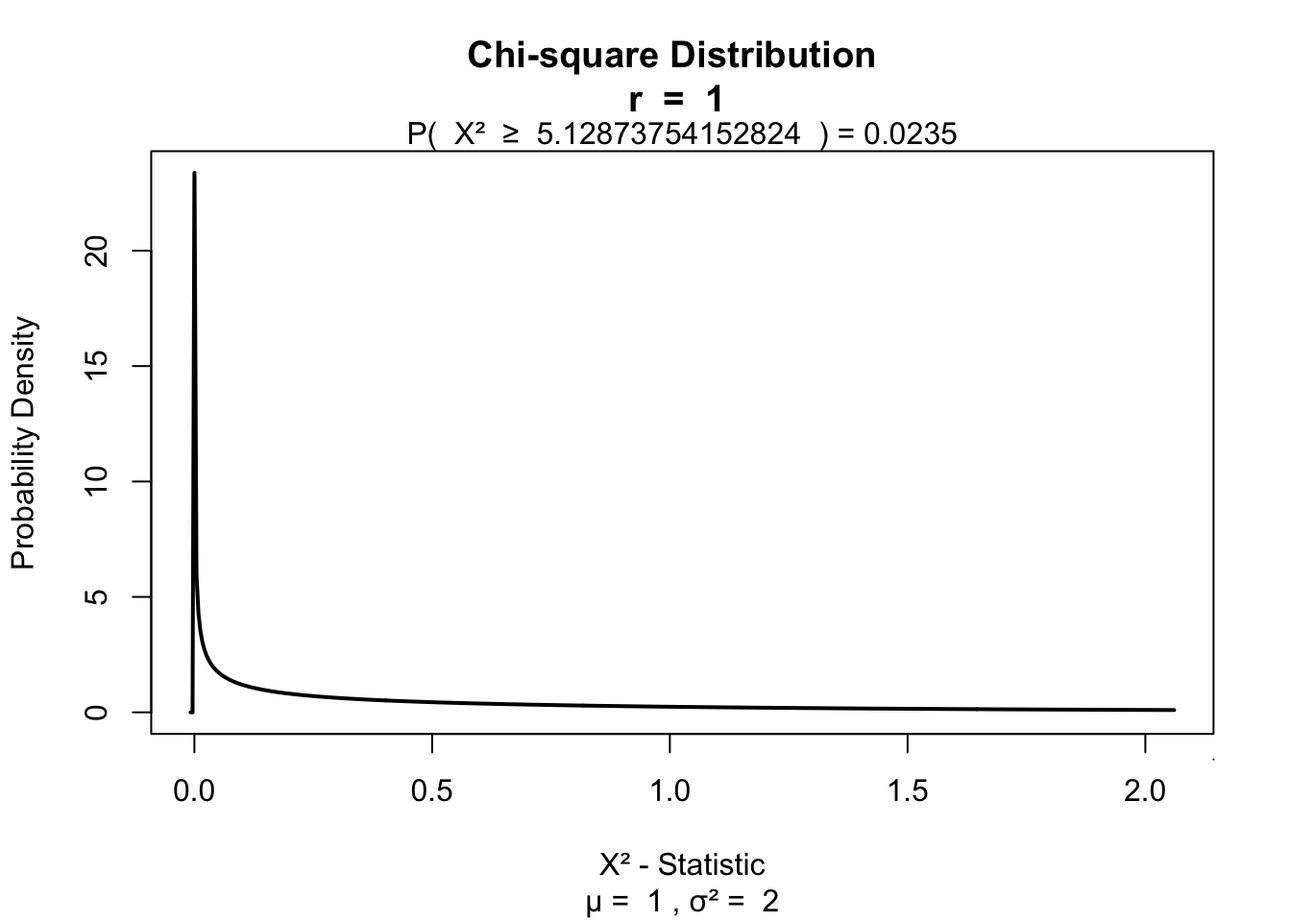
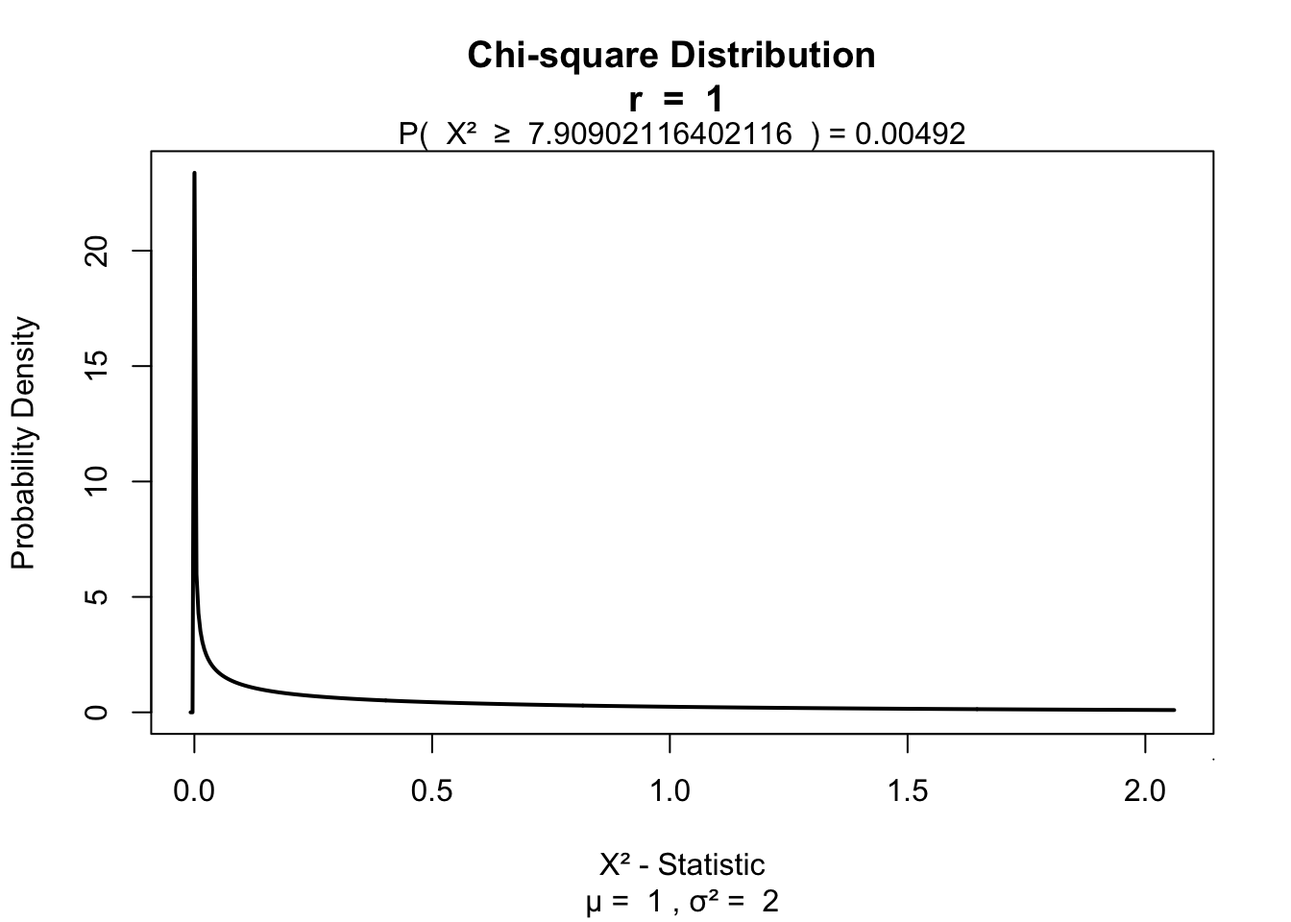
new data

Changed region(s): [[0.3125, 0.125, 0.75, 0.1562]]

diff --git a/courses/2020-2021_SSR/chi_squared_test/chi_squared_test_reveal.html b/courses/2020-2021_SSR/chi_squared_test/chi_squared_test_reveal.html
@@ -660,8 +660,8 @@ document.getElementsByTagName('head')[0].appendChild(style);
 </section><section id="data" class="slide level2 smaller">
 <h2>Data</h2>
 <p><small></p>
-<div id="htmlwidget-cf1dd7bc5f451b475255" style="width:100%;height:auto;" class="datatables html-widget"></div>
-<script type="application/json" data-for="htmlwidget-cf1dd7bc5f451b475255">{"x":{"filter":"none","data":[["215","216","217","218","219","220","221","222","223","224","225","226","227","228","229","230","231","232","233","234","235","236","237","238","239","240","241","242","243","244","245","246","247","248","249","250","251","252","253","254","255","256","257","258","259","260","261","262","263","264","265","266","267","268","269","270","436"],["05/10/2017 16:56:01","12/10/2017 09:50:53","12/10/2017 09:50:55","12/10/2017 09:50:57","12/10/2017 09:51:06","12/10/2017 09:51:10","12/10/2017 09:51:11","12/10/2017 09:51:12","12/10/2017 09:51:13","12/10/2017 09:51:15","12/10/2017 09:51:18","12/10/2017 09:51:19","12/10/2017 09:51:19","12/10/2017 09:51:20","12/10/2017 09:51:22","12/10/2017 09:51:22","12/10/2017 09:51:23","12/10/2017 09:51:24","12/10/2017 09:51:25","12/10/2017 09:51:26","12/10/2017 09:51:26","12/10/2017 09:51:26","12/10/2017 09:51:27","12/10/2017 09:51:28","12/10/2017 09:51:28","12/10/2017 09:51:30","12/10/2017 09:51:30","12/10/2017 09:51:33","12/10/2017 09:51:34","12/10/2017 09:51:34","12/10/2017 09:51:35","12/10/2017 09:51:40","12/10/2017 09:51:42","12/10/2017 09:51:42","12/10/2017 09:51:43","12/10/2017 09:51:44","12/10/2017 09:51:44","12/10/2017 09:51:46","12/10/2017 09:51:47","12/10/2017 09:51:47","12/10/2017 09:51:49","12/10/2017 09:51:49","12/10/2017 09:51:50","12/10/2017 09:51:52","12/10/2017 09:51:54","12/10/2017 09:51:55","12/10/2017 09:51:57","12/10/2017 09:52:00","12/10/2017 09:52:00","12/10/2017 09:52:04","12/10/2017 09:52:06","12/10/2017 09:52:07","12/10/2017 09:52:08","12/10/2017 09:52:10","12/10/2017 09:52:24","12/10/2017 09:52:35","14/10/2020 16:15:10"],["Ja","Nee","Ja","Ja","Nee","Ja","Ja","Nee","Ja","Ja","Nee","Nee","Ja","Nee","Ja","Ja","Ja","Ja","Ja","Ja","Ja","Ja","Ja","Nee","Ja","Ja","Ja","Nee","Ja","Ja","Ja","Ja","Nee","Nee","Ja","Ja","Ja","Ja","Ja","Ja","Nee","Ja","Ja","Ja","Nee","Ja","Ja","Ja","Ja","Ja","Ja","Ja","Nee","Ja","Ja","Ja","Nee"],[3,0,1,2,0,0,50,0,7,5,0,0,17,0,10,38,0,0,5,5,30,0,20,0,1,2,0,0,8,150,3,2,0,1,5,4,3,0,90,1,0,2,15,25,0,2,1,2,90,200,1,8,0,0,60,5,0],[3,1,4,4,1,1,4,4,3,5,3,3,3,2,3,2,4,3,5,4,3,3,3,4,4,4,2,4,5,4,4,3,5,3,4,4,3,4,4,3,4,3,3,5,4,4,4,4,4,5,3,3,4,3,3,3,3],["Man","Man","Man","Man","Vrouw","Vrouw","Vrouw","Vrouw","Man","Vrouw","Vrouw","Vrouw","Man","Vrouw","Man","Vrouw","Man","Vrouw","Man","Vrouw","Man","Vrouw","Man","Vrouw","Vrouw","Vrouw","Vrouw","Vrouw","Vrouw","Man","Man","Vrouw","Vrouw","Vrouw","Vrouw","Vrouw","Vrouw","Vrouw","Man","Vrouw","Vrouw","Vrouw","Vrouw","Vrouw","Vrouw","Vrouw","Vrouw","Vrouw","Man","Man","Vrouw","Man","Vrouw","Vrouw","Man","Vrouw","Vrouw"],[40,23,27,21,19,20,20,21,20,21,20,19,19,19,26,19,23,21,22,20,19,19,21,20,20,19,21,22,21,20,20,10,23,18,19,25,20,20,25,20,26,20,19,20,20,20,19,20,23,26,19,19,19,31,21,19,19]],"container":"<table class=\"display\">\n  <thead>\n    <tr>\n      <th> <\/th>\n      <th>Timestamp<\/th>\n      <th>fluiten<\/th>\n      <th>frequentie<\/th>\n      <th>assertief<\/th>\n      <th>sekse<\/th>\n      <th>leeftijd<\/th>\n    <\/tr>\n  <\/thead>\n<\/table>","options":{"columnDefs":[{"className":"dt-right","targets":[3,4,6]},{"orderable":false,"targets":0}],"order":[],"autoWidth":false,"orderClasses":false}},"evals":[],"jsHooks":[]}</script>
+<div id="htmlwidget-87e1f4bdd64ece0b31a5" style="width:100%;height:auto;" class="datatables html-widget"></div>
+<script type="application/json" data-for="htmlwidget-87e1f4bdd64ece0b31a5">{"x":{"filter":"none","data":[["215","216","217","218","219","220","221","222","223","224","225","226","227","228","229","230","231","232","233","234","235","236","237","238","239","240","241","242","243","244","245","246","247","248","249","250","251","252","253","254","255","256","257","258","259","260","261","262","263","264","265","266","267","268","269","270","436","437","438","439","440","441","442","443","444","445","446","447","448","449","450","451","452","453","454","455","456","457","458","459","460","461","462","463","464","465","466","467","468","469","470","471","472","473","474","475","476","477","478","479","480","481","482","483","484","485","486","487","488","489","490","491","492","493","494","495","496","497","498","499","500","501"],["05/10/2017 16:56:01","12/10/2017 09:50:53","12/10/2017 09:50:55","12/10/2017 09:50:57","12/10/2017 09:51:06","12/10/2017 09:51:10","12/10/2017 09:51:11","12/10/2017 09:51:12","12/10/2017 09:51:13","12/10/2017 09:51:15","12/10/2017 09:51:18","12/10/2017 09:51:19","12/10/2017 09:51:19","12/10/2017 09:51:20","12/10/2017 09:51:22","12/10/2017 09:51:22","12/10/2017 09:51:23","12/10/2017 09:51:24","12/10/2017 09:51:25","12/10/2017 09:51:26","12/10/2017 09:51:26","12/10/2017 09:51:26","12/10/2017 09:51:27","12/10/2017 09:51:28","12/10/2017 09:51:28","12/10/2017 09:51:30","12/10/2017 09:51:30","12/10/2017 09:51:33","12/10/2017 09:51:34","12/10/2017 09:51:34","12/10/2017 09:51:35","12/10/2017 09:51:40","12/10/2017 09:51:42","12/10/2017 09:51:42","12/10/2017 09:51:43","12/10/2017 09:51:44","12/10/2017 09:51:44","12/10/2017 09:51:46","12/10/2017 09:51:47","12/10/2017 09:51:47","12/10/2017 09:51:49","12/10/2017 09:51:49","12/10/2017 09:51:50","12/10/2017 09:51:52","12/10/2017 09:51:54","12/10/2017 09:51:55","12/10/2017 09:51:57","12/10/2017 09:52:00","12/10/2017 09:52:00","12/10/2017 09:52:04","12/10/2017 09:52:06","12/10/2017 09:52:07","12/10/2017 09:52:08","12/10/2017 09:52:10","12/10/2017 09:52:24","12/10/2017 09:52:35","14/10/2020 16:15:10","15/10/2020 09:45:39","15/10/2020 09:45:44","15/10/2020 09:45:47","15/10/2020 09:45:48","15/10/2020 09:45:51","15/10/2020 09:45:53","15/10/2020 09:45:53","15/10/2020 09:46:00","15/10/2020 09:46:02","15/10/2020 09:46:02","15/10/2020 09:46:02","15/10/2020 09:46:03","15/10/2020 09:46:05","15/10/2020 09:46:05","15/10/2020 09:46:06","15/10/2020 09:46:07","15/10/2020 09:46:10","15/10/2020 09:46:10","15/10/2020 09:46:10","15/10/2020 09:46:12","15/10/2020 09:46:17","15/10/2020 09:46:18","15/10/2020 09:46:19","15/10/2020 09:46:24","15/10/2020 09:46:28","15/10/2020 09:46:29","15/10/2020 09:46:33","15/10/2020 09:46:34","15/10/2020 09:46:34","15/10/2020 09:46:35","15/10/2020 09:46:35","15/10/2020 09:46:37","15/10/2020 09:46:37","15/10/2020 09:46:38","15/10/2020 09:46:39","15/10/2020 09:46:41","15/10/2020 09:46:42","15/10/2020 09:46:42","15/10/2020 09:46:47","15/10/2020 09:46:49","15/10/2020 09:46:50","15/10/2020 09:46:51","15/10/2020 09:46:58","15/10/2020 09:47:00","15/10/2020 09:47:01","15/10/2020 09:47:01","15/10/2020 09:47:04","15/10/2020 09:47:05","15/10/2020 09:47:06","15/10/2020 09:47:08","15/10/2020 09:47:11","15/10/2020 09:47:11","15/10/2020 09:47:13","15/10/2020 09:47:13","15/10/2020 09:47:16","15/10/2020 09:47:19","15/10/2020 09:47:23","15/10/2020 09:47:26","15/10/2020 09:47:27","15/10/2020 09:47:29","15/10/2020 09:47:31","15/10/2020 09:47:37","15/10/2020 09:47:42","15/10/2020 09:47:53","15/10/2020 09:48:11"],["Ja","Nee","Ja","Ja","Nee","Ja","Ja","Nee","Ja","Ja","Nee","Nee","Ja","Nee","Ja","Ja","Ja","Ja","Ja","Ja","Ja","Ja","Ja","Nee","Ja","Ja","Ja","Nee","Ja","Ja","Ja","Ja","Nee","Nee","Ja","Ja","Ja","Ja","Ja","Ja","Nee","Ja","Ja","Ja","Nee","Ja","Ja","Ja","Ja","Ja","Ja","Ja","Nee","Ja","Ja","Ja","Nee","Nee","Nee","Ja","Nee","Nee","Nee","Ja","Ja","Nee","Nee","Ja","Ja","Ja","Ja","Nee","Ja","Ja","Ja","Nee","Nee","Nee","Ja","Nee","Ja","Ja","Ja","Nee","Ja","Ja","Nee","Ja","Ja","Ja","Nee","Ja","Nee","Nee","Ja","Ja","Ja","Ja","Ja","Ja","Ja","Ja","Nee","Ja","Ja","Ja","Nee","Ja","Ja","Ja","Nee","Nee","Ja","Ja","Ja","Ja","Ja","Ja","Ja","Ja","Ja","Ja"],[3,0,1,2,0,0,50,0,7,5,0,0,17,0,10,38,0,0,5,5,30,0,20,0,1,2,0,0,8,150,3,2,0,1,5,4,3,0,90,1,0,2,15,25,0,2,1,2,90,200,1,8,0,0,60,5,0,0,0,3,0,0,0,10,2,0,0,10,40,3,8,0,0,3,0,0,0,0,2,0,1,20,3,0,1,30,0,30,15,3,0,70,0,0,2,0,3,15,0,6,15,60,3,30,10,3,0,3,4,13,0,0,6,50,6,15,20,3,3,0,2,2],[3,1,4,4,1,1,4,4,3,5,3,3,3,2,3,2,4,3,5,4,3,3,3,4,4,4,2,4,5,4,4,3,5,3,4,4,3,4,4,3,4,3,3,5,4,4,4,4,4,5,3,3,4,3,3,3,3,2,4,4,4,4,3,4,3,3,4,4,5,4,5,3,2,4,2,4,3,2,4,4,3,2,3,3,5,2,2,4,3,2,4,3,1,4,1,5,3,4,3,4,3,1,2,4,3,2,3,4,3,4,5,4,5,3,3,5,3,5,3,3,4,3],["Man","Man","Man","Man","Vrouw","Vrouw","Vrouw","Vrouw","Man","Vrouw","Vrouw","Vrouw","Man","Vrouw","Man","Vrouw","Man","Vrouw","Man","Vrouw","Man","Vrouw","Man","Vrouw","Vrouw","Vrouw","Vrouw","Vrouw","Vrouw","Man","Man","Vrouw","Vrouw","Vrouw","Vrouw","Vrouw","Vrouw","Vrouw","Man","Vrouw","Vrouw","Vrouw","Vrouw","Vrouw","Vrouw","Vrouw","Vrouw","Vrouw","Man","Man","Vrouw","Man","Vrouw","Vrouw","Man","Vrouw","Vrouw","Vrouw","Vrouw","Man","Vrouw","Man","Vrouw","Vrouw","Vrouw","Vrouw","Vrouw","Vrouw","Man","Vrouw","Man","Vrouw","Vrouw","Vrouw","Vrouw","Vrouw","Vrouw","Vrouw","Vrouw","Vrouw","Vrouw","Man","Vrouw","Man","Vrouw","Man","Vrouw","Vrouw","Man","Vrouw","Vrouw","Vrouw","Vrouw","Vrouw","Vrouw","Vrouw","Man","Vrouw","Vrouw","Vrouw","Vrouw","Vrouw","Vrouw","Vrouw","Man","Vrouw","Vrouw","Vrouw","Man","Vrouw","Vrouw","Vrouw","Vrouw","Vrouw","Vrouw","Man","Man","Vrouw","Vrouw","Vrouw","Vrouw","Man"],[40,23,27,21,19,20,20,21,20,21,20,19,19,19,26,19,23,21,22,20,19,19,21,20,20,19,21,22,21,20,20,10,23,18,19,25,20,20,25,20,26,20,19,20,20,20,19,20,23,26,19,19,19,31,21,19,19,19,24,29,19,20,20,21,19,20,27,21,32,27,23,19,21,20,19,20,19,20,23,22,19,25,19,23,21,19,19,28,20,19,35,21,21,22,19,22,21,19,19,20,21,20,24,21,28,19,20,20,20,21,20,24,23,20,19,23,21,20,19,31,24,26]],"container":"<table class=\"display\">\n  <thead>\n    <tr>\n      <th> <\/th>\n      <th>Timestamp<\/th>\n      <th>fluiten<\/th>\n      <th>frequentie<\/th>\n      <th>assertief<\/th>\n      <th>sekse<\/th>\n      <th>leeftijd<\/th>\n    <\/tr>\n  <\/thead>\n<\/table>","options":{"columnDefs":[{"className":"dt-right","targets":[3,4,6]},{"orderable":false,"targets":0}],"order":[],"autoWidth":false,"orderClasses":false}},"evals":[],"jsHooks":[]}</script>
 <p></small></p>
 </section><section id="calculating-chi2" class="slide level2 subsection">
 <h2>Calculating <span class="math inline">\(\chi^2\)</span></h2>
@@ -669,12 +669,12 @@ document.getElementsByTagName('head')[0].appendChild(style);
 <a class="sourceLine" id="cb2-2" data-line-number="2">observed</a></code></pre></div>
 <pre><code>##        sekse
 ## fluiten Man Vrouw
-##     Ja   17    26
-##     Nee   1    13</code></pre>
+##     Ja   29    58
+##     Nee   3    32</code></pre>
 <p><span class="math display">\[\text{observed}_{ij} = 
  \begin{pmatrix}
-  17 &amp; 26 \\
-  1 &amp; 13 \\
+  29 &amp; 58 \\
+  3 &amp; 32 \\
  \end{pmatrix}\]</span></p>
 </section><section id="calculating-the-model" class="slide level2 subsection">
 <h2>Calculating the model</h2>
@@ -688,9 +688,9 @@ document.getElementsByTagName('head')[0].appendChild(style);
 <a class="sourceLine" id="cb4-7" data-line-number="7"><span class="kw">addmargins</span>(observed)</a></code></pre></div>
 <pre><code>##        sekse
 ## fluiten Man Vrouw Sum
-##     Ja   17    26  43
-##     Nee   1    13  14
-##     Sum  18    39  57</code></pre>
+##     Ja   29    58  87
+##     Nee   3    32  35
+##     Sum  32    90 122</code></pre>
 </section><section id="calculating-the-model-1" class="slide level2 smaller">
 <h2>Calculating the model</h2>
 <p><small></p>
@@ -701,13 +701,13 @@ document.getElementsByTagName('head')[0].appendChild(style);
 <a class="sourceLine" id="cb6-4" data-line-number="4">                  (ct2<span class="op">*</span>rt2)<span class="op">/</span>n),<span class="dv">2</span>,<span class="dv">2</span>,<span class="dt">byrow=</span>T</a>
 <a class="sourceLine" id="cb6-5" data-line-number="5">          )</a>
 <a class="sourceLine" id="cb6-6" data-line-number="6">model</a></code></pre></div>
-<pre><code>##           [,1]      [,2]
-## [1,] 13.578947 29.421053
-## [2,]  4.421053  9.578947</code></pre>
+<pre><code>##           [,1]     [,2]
+## [1,] 22.819672 64.18033
+## [2,]  9.180328 25.81967</code></pre>
 <p><span class="math display">\[\text{model}_{ij} = 
  \begin{pmatrix}
-  13.5789474 &amp; 29.4210526 \\
-  4.4210526 &amp; 9.5789474 \\
+  22.8196721 &amp; 64.1803279 \\
+  9.1803279 &amp; 25.8196721 \\
  \end{pmatrix}\]</span></p>
 <p></small></p>
 </section><section id="observed---model" class="slide level2 subsection">
@@ -715,15 +715,15 @@ document.getElementsByTagName('head')[0].appendChild(style);
 <div class="sourceCode" id="cb8"><pre class="sourceCode r"><code class="sourceCode r"><a class="sourceLine" id="cb8-1" data-line-number="1">observed <span class="op">-</span><span class="st"> </span>model</a></code></pre></div>
 <pre><code>##        sekse
 ## fluiten       Man     Vrouw
-##     Ja   3.421053 -3.421053
-##     Nee -3.421053  3.421053</code></pre>
+##     Ja   6.180328 -6.180328
+##     Nee -6.180328  6.180328</code></pre>
 </section><section id="calculating-chi2-1" class="slide level2">
 <h2>Calculating <span class="math inline">\(\chi^2\)</span></h2>
 <p><span class="math display">\[\chi^2 = \sum \frac{(\text{observed}_{ij} - \text{model}_{ij})^2}{\text{model}_{ij}}\]</span></p>
 <div class="sourceCode" id="cb10"><pre class="sourceCode r"><code class="sourceCode r"><a class="sourceLine" id="cb10-1" data-line-number="1"><span class="co"># Calculate chi squared</span></a>
 <a class="sourceLine" id="cb10-2" data-line-number="2">chi.squared &lt;-<span class="st"> </span><span class="kw">sum</span>((observed <span class="op">-</span><span class="st"> </span>model)<span class="op">^</span><span class="dv">2</span><span class="op">/</span>model)</a>
 <a class="sourceLine" id="cb10-3" data-line-number="3">chi.squared</a></code></pre></div>
-<pre><code>## [1] 5.128738</code></pre>
+<pre><code>## [1] 7.909021</code></pre>
 </section><section id="testing-for-significance" class="slide level2 subsection">
 <h2>Testing for significance</h2>
 <p><span class="math inline">\(df = (r - 1) (c - 1)\)</span></p>
@@ -747,7 +747,7 @@ document.getElementsByTagName('head')[0].appendChild(style);
 <div class="sourceCode" id="cb13"><pre class="sourceCode r"><code class="sourceCode r"><a class="sourceLine" id="cb13-1" data-line-number="1"><span class="co"># Calculate Yates&#39;s corrected chi squared</span></a>
 <a class="sourceLine" id="cb13-2" data-line-number="2">chi.squared.yates &lt;-<span class="st"> </span><span class="kw">sum</span>((<span class="kw">abs</span>(observed <span class="op">-</span><span class="st"> </span>model) <span class="op">-</span><span class="st"> </span><span class="fl">.5</span>)<span class="op">^</span><span class="dv">2</span><span class="op">/</span>model)</a>
 <a class="sourceLine" id="cb13-3" data-line-number="3">chi.squared.yates</a></code></pre></div>
-<pre><code>## [1] 3.739123</code></pre>
+<pre><code>## [1] 6.681078</code></pre>
 <div class="sourceCode" id="cb15"><pre class="sourceCode r"><code class="sourceCode r"><a class="sourceLine" id="cb15-1" data-line-number="1"><span class="kw">visualize.chisq</span>(chi.squared.yates,df,<span class="dt">section=</span><span class="st">&#39;upper&#39;</span>)</a></code></pre></div>
 </section><section class="slide level2">
 
@@ -758,7 +758,7 @@ document.getElementsByTagName('head')[0].appendChild(style);
 <p><span class="math display">\[L \chi^2 = 2 \sum \text{observed}_{ij} ln \left( \frac{\text{observed}_{ij}}{\text{model}_{ij}} \right)\]</span></p>
 <div class="sourceCode" id="cb16"><pre class="sourceCode r"><code class="sourceCode r"><a class="sourceLine" id="cb16-1" data-line-number="1"><span class="co"># ln is log</span></a>
 <a class="sourceLine" id="cb16-2" data-line-number="2">lx2 =<span class="st"> </span><span class="dv">2</span> <span class="op">*</span><span class="st"> </span><span class="kw">sum</span>(observed <span class="op">*</span><span class="st"> </span><span class="kw">log</span>(observed <span class="op">/</span><span class="st"> </span>model) ); lx2</a></code></pre></div>
-<pre><code>## [1] 6.178795</code></pre>
+<pre><code>## [1] 9.179238</code></pre>
 <div class="sourceCode" id="cb18"><pre class="sourceCode r"><code class="sourceCode r"><a class="sourceLine" id="cb18-1" data-line-number="1"><span class="kw">visualize.chisq</span>(lx2,df,<span class="dt">section=</span><span class="st">&#39;upper&#39;</span>)</a></code></pre></div>
 </section><section class="slide level2">
 
@@ -769,36 +769,36 @@ document.getElementsByTagName('head')[0].appendChild(style);
 <div class="sourceCode" id="cb19"><pre class="sourceCode r"><code class="sourceCode r"><a class="sourceLine" id="cb19-1" data-line-number="1">(observed <span class="op">-</span><span class="st"> </span>model) <span class="op">/</span><span class="st"> </span><span class="kw">sqrt</span>(model)</a></code></pre></div>
 <pre><code>##        sekse
 ## fluiten        Man      Vrouw
-##     Ja   0.9283820 -0.6307114
-##     Nee -1.6270351  1.1053527</code></pre>
+##     Ja   1.2937692 -0.7714549
+##     Nee -2.0397757  1.2162872</code></pre>
 </section><section id="effect-size" class="slide level2 subsection">
 <h2>Effect size</h2>
 <p>Odds ratio based on the observed values</p>
 <div class="sourceCode" id="cb21"><pre class="sourceCode r"><code class="sourceCode r"><a class="sourceLine" id="cb21-1" data-line-number="1">odds &lt;-<span class="st"> </span><span class="kw">round</span>( observed, <span class="dv">2</span>); odds</a></code></pre></div>
 <pre><code>##        sekse
 ## fluiten Man Vrouw
-##     Ja   17    26
-##     Nee   1    13</code></pre>
+##     Ja   29    58
+##     Nee   3    32</code></pre>
 <p><span class="math display">\[\begin{pmatrix}
   a &amp; b \\
   c &amp; d \\
  \end{pmatrix}\]</span></p>
-<p><span class="math display">\[OR = \frac{a \times d}{b \times c} = \frac{17 \times 13}{26 \times 1} = 8.5\]</span></p>
+<p><span class="math display">\[OR = \frac{a \times d}{b \times c} = \frac{29 \times 32}{58 \times 3} = 5.3333333\]</span></p>
 </section><section id="odds" class="slide level2">
 <h2>Odds</h2>
 <pre><code>##        sekse
 ## fluiten Man Vrouw
-##     Ja   17    26
-##     Nee   1    13</code></pre>
+##     Ja   29    58
+##     Nee   3    32</code></pre>
 <p>The man and women ratio of people that can whisle and the ratio of those who can’t whistle</p>
 <ul>
-<li>Can wistle <span class="math inline">\(\text{Odds}_{mf} = \frac{ 17 }{ 26 }\)</span> = 0.6538462</li>
-<li>Can’t wistle <span class="math inline">\(\text{Odds}_{mf} = \frac{ 1 }{ 13 }\)</span> = 0.0769231</li>
+<li>Can wistle <span class="math inline">\(\text{Odds}_{mf} = \frac{ 29 }{ 58 }\)</span> = 0.5</li>
+<li>Can’t wistle <span class="math inline">\(\text{Odds}_{mf} = \frac{ 3 }{ 32 }\)</span> = 0.09375</li>
 </ul>
 </section><section id="odds-ratio" class="slide level2">
 <h2>Odds ratio</h2>
 <p>Is the ratio of these odds.</p>
-<p><span class="math display">\[OR = \frac{\text{wistle}}{\text{can&#39;t wistle}} = \frac{0.6538462}{0.0769231} = 8.5\]</span></p>
+<p><span class="math display">\[OR = \frac{\text{wistle}}{\text{can&#39;t wistle}} = \frac{0.5}{0.09375} = 5.3333333\]</span></p>
 <!-- Footer insert below -->
 </section></section>
 <section><section id="end" class="title-slide slide level1"><h1>End</h1></section><section id="contact" class="slide level2">

diff --git a/courses/2020-2021_SSR/chi_squared_test/chi_squared_test_handout.html b/courses/2020-2021_SSR/chi_squared_test/chi_squared_test_handout.html
@@ -371,9 +371,8 @@ legend(&quot;topright&quot;, legend = paste(&quot;k =&quot;,df), col = col, lty 
 <div id="data" class="section level2 smaller">
 <h2>Data</h2>
 <p><small></p>
-<pre><code>## Warning: package &#39;gsheet&#39; was built under R version 3.6.2</code></pre>
-<div id="htmlwidget-e3097c829f0482c41d23" style="width:100%;height:auto;" class="datatables html-widget"></div>
-<script type="application/json" data-for="htmlwidget-e3097c829f0482c41d23">{"x":{"filter":"none","data":[["215","216","217","218","219","220","221","222","223","224","225","226","227","228","229","230","231","232","233","234","235","236","237","238","239","240","241","242","243","244","245","246","247","248","249","250","251","252","253","254","255","256","257","258","259","260","261","262","263","264","265","266","267","268","269","270","436"],["05/10/2017 16:56:01","12/10/2017 09:50:53","12/10/2017 09:50:55","12/10/2017 09:50:57","12/10/2017 09:51:06","12/10/2017 09:51:10","12/10/2017 09:51:11","12/10/2017 09:51:12","12/10/2017 09:51:13","12/10/2017 09:51:15","12/10/2017 09:51:18","12/10/2017 09:51:19","12/10/2017 09:51:19","12/10/2017 09:51:20","12/10/2017 09:51:22","12/10/2017 09:51:22","12/10/2017 09:51:23","12/10/2017 09:51:24","12/10/2017 09:51:25","12/10/2017 09:51:26","12/10/2017 09:51:26","12/10/2017 09:51:26","12/10/2017 09:51:27","12/10/2017 09:51:28","12/10/2017 09:51:28","12/10/2017 09:51:30","12/10/2017 09:51:30","12/10/2017 09:51:33","12/10/2017 09:51:34","12/10/2017 09:51:34","12/10/2017 09:51:35","12/10/2017 09:51:40","12/10/2017 09:51:42","12/10/2017 09:51:42","12/10/2017 09:51:43","12/10/2017 09:51:44","12/10/2017 09:51:44","12/10/2017 09:51:46","12/10/2017 09:51:47","12/10/2017 09:51:47","12/10/2017 09:51:49","12/10/2017 09:51:49","12/10/2017 09:51:50","12/10/2017 09:51:52","12/10/2017 09:51:54","12/10/2017 09:51:55","12/10/2017 09:51:57","12/10/2017 09:52:00","12/10/2017 09:52:00","12/10/2017 09:52:04","12/10/2017 09:52:06","12/10/2017 09:52:07","12/10/2017 09:52:08","12/10/2017 09:52:10","12/10/2017 09:52:24","12/10/2017 09:52:35","14/10/2020 16:15:10"],["Ja","Nee","Ja","Ja","Nee","Ja","Ja","Nee","Ja","Ja","Nee","Nee","Ja","Nee","Ja","Ja","Ja","Ja","Ja","Ja","Ja","Ja","Ja","Nee","Ja","Ja","Ja","Nee","Ja","Ja","Ja","Ja","Nee","Nee","Ja","Ja","Ja","Ja","Ja","Ja","Nee","Ja","Ja","Ja","Nee","Ja","Ja","Ja","Ja","Ja","Ja","Ja","Nee","Ja","Ja","Ja","Nee"],[3,0,1,2,0,0,50,0,7,5,0,0,17,0,10,38,0,0,5,5,30,0,20,0,1,2,0,0,8,150,3,2,0,1,5,4,3,0,90,1,0,2,15,25,0,2,1,2,90,200,1,8,0,0,60,5,0],[3,1,4,4,1,1,4,4,3,5,3,3,3,2,3,2,4,3,5,4,3,3,3,4,4,4,2,4,5,4,4,3,5,3,4,4,3,4,4,3,4,3,3,5,4,4,4,4,4,5,3,3,4,3,3,3,3],["Man","Man","Man","Man","Vrouw","Vrouw","Vrouw","Vrouw","Man","Vrouw","Vrouw","Vrouw","Man","Vrouw","Man","Vrouw","Man","Vrouw","Man","Vrouw","Man","Vrouw","Man","Vrouw","Vrouw","Vrouw","Vrouw","Vrouw","Vrouw","Man","Man","Vrouw","Vrouw","Vrouw","Vrouw","Vrouw","Vrouw","Vrouw","Man","Vrouw","Vrouw","Vrouw","Vrouw","Vrouw","Vrouw","Vrouw","Vrouw","Vrouw","Man","Man","Vrouw","Man","Vrouw","Vrouw","Man","Vrouw","Vrouw"],[40,23,27,21,19,20,20,21,20,21,20,19,19,19,26,19,23,21,22,20,19,19,21,20,20,19,21,22,21,20,20,10,23,18,19,25,20,20,25,20,26,20,19,20,20,20,19,20,23,26,19,19,19,31,21,19,19]],"container":"<table class=\"display\">\n  <thead>\n    <tr>\n      <th> <\/th>\n      <th>Timestamp<\/th>\n      <th>fluiten<\/th>\n      <th>frequentie<\/th>\n      <th>assertief<\/th>\n      <th>sekse<\/th>\n      <th>leeftijd<\/th>\n    <\/tr>\n  <\/thead>\n<\/table>","options":{"columnDefs":[{"className":"dt-right","targets":[3,4,6]},{"orderable":false,"targets":0}],"order":[],"autoWidth":false,"orderClasses":false}},"evals":[],"jsHooks":[]}</script>
+<div id="htmlwidget-cdda29611b8f98d740dc" style="width:100%;height:auto;" class="datatables html-widget"></div>
+<script type="application/json" data-for="htmlwidget-cdda29611b8f98d740dc">{"x":{"filter":"none","data":[["215","216","217","218","219","220","221","222","223","224","225","226","227","228","229","230","231","232","233","234","235","236","237","238","239","240","241","242","243","244","245","246","247","248","249","250","251","252","253","254","255","256","257","258","259","260","261","262","263","264","265","266","267","268","269","270","436","437","438","439","440","441","442","443","444","445","446","447","448","449","450","451","452","453","454","455","456","457","458","459","460","461","462","463","464","465","466","467","468","469","470","471","472","473","474","475","476","477","478","479","480","481","482","483","484","485","486","487","488","489","490","491","492","493","494","495","496","497","498","499","500","501"],["05/10/2017 16:56:01","12/10/2017 09:50:53","12/10/2017 09:50:55","12/10/2017 09:50:57","12/10/2017 09:51:06","12/10/2017 09:51:10","12/10/2017 09:51:11","12/10/2017 09:51:12","12/10/2017 09:51:13","12/10/2017 09:51:15","12/10/2017 09:51:18","12/10/2017 09:51:19","12/10/2017 09:51:19","12/10/2017 09:51:20","12/10/2017 09:51:22","12/10/2017 09:51:22","12/10/2017 09:51:23","12/10/2017 09:51:24","12/10/2017 09:51:25","12/10/2017 09:51:26","12/10/2017 09:51:26","12/10/2017 09:51:26","12/10/2017 09:51:27","12/10/2017 09:51:28","12/10/2017 09:51:28","12/10/2017 09:51:30","12/10/2017 09:51:30","12/10/2017 09:51:33","12/10/2017 09:51:34","12/10/2017 09:51:34","12/10/2017 09:51:35","12/10/2017 09:51:40","12/10/2017 09:51:42","12/10/2017 09:51:42","12/10/2017 09:51:43","12/10/2017 09:51:44","12/10/2017 09:51:44","12/10/2017 09:51:46","12/10/2017 09:51:47","12/10/2017 09:51:47","12/10/2017 09:51:49","12/10/2017 09:51:49","12/10/2017 09:51:50","12/10/2017 09:51:52","12/10/2017 09:51:54","12/10/2017 09:51:55","12/10/2017 09:51:57","12/10/2017 09:52:00","12/10/2017 09:52:00","12/10/2017 09:52:04","12/10/2017 09:52:06","12/10/2017 09:52:07","12/10/2017 09:52:08","12/10/2017 09:52:10","12/10/2017 09:52:24","12/10/2017 09:52:35","14/10/2020 16:15:10","15/10/2020 09:45:39","15/10/2020 09:45:44","15/10/2020 09:45:47","15/10/2020 09:45:48","15/10/2020 09:45:51","15/10/2020 09:45:53","15/10/2020 09:45:53","15/10/2020 09:46:00","15/10/2020 09:46:02","15/10/2020 09:46:02","15/10/2020 09:46:02","15/10/2020 09:46:03","15/10/2020 09:46:05","15/10/2020 09:46:05","15/10/2020 09:46:06","15/10/2020 09:46:07","15/10/2020 09:46:10","15/10/2020 09:46:10","15/10/2020 09:46:10","15/10/2020 09:46:12","15/10/2020 09:46:17","15/10/2020 09:46:18","15/10/2020 09:46:19","15/10/2020 09:46:24","15/10/2020 09:46:28","15/10/2020 09:46:29","15/10/2020 09:46:33","15/10/2020 09:46:34","15/10/2020 09:46:34","15/10/2020 09:46:35","15/10/2020 09:46:35","15/10/2020 09:46:37","15/10/2020 09:46:37","15/10/2020 09:46:38","15/10/2020 09:46:39","15/10/2020 09:46:41","15/10/2020 09:46:42","15/10/2020 09:46:42","15/10/2020 09:46:47","15/10/2020 09:46:49","15/10/2020 09:46:50","15/10/2020 09:46:51","15/10/2020 09:46:58","15/10/2020 09:47:00","15/10/2020 09:47:01","15/10/2020 09:47:01","15/10/2020 09:47:04","15/10/2020 09:47:05","15/10/2020 09:47:06","15/10/2020 09:47:08","15/10/2020 09:47:11","15/10/2020 09:47:11","15/10/2020 09:47:13","15/10/2020 09:47:13","15/10/2020 09:47:16","15/10/2020 09:47:19","15/10/2020 09:47:23","15/10/2020 09:47:26","15/10/2020 09:47:27","15/10/2020 09:47:29","15/10/2020 09:47:31","15/10/2020 09:47:37","15/10/2020 09:47:42","15/10/2020 09:47:53","15/10/2020 09:48:11"],["Ja","Nee","Ja","Ja","Nee","Ja","Ja","Nee","Ja","Ja","Nee","Nee","Ja","Nee","Ja","Ja","Ja","Ja","Ja","Ja","Ja","Ja","Ja","Nee","Ja","Ja","Ja","Nee","Ja","Ja","Ja","Ja","Nee","Nee","Ja","Ja","Ja","Ja","Ja","Ja","Nee","Ja","Ja","Ja","Nee","Ja","Ja","Ja","Ja","Ja","Ja","Ja","Nee","Ja","Ja","Ja","Nee","Nee","Nee","Ja","Nee","Nee","Nee","Ja","Ja","Nee","Nee","Ja","Ja","Ja","Ja","Nee","Ja","Ja","Ja","Nee","Nee","Nee","Ja","Nee","Ja","Ja","Ja","Nee","Ja","Ja","Nee","Ja","Ja","Ja","Nee","Ja","Nee","Nee","Ja","Ja","Ja","Ja","Ja","Ja","Ja","Ja","Nee","Ja","Ja","Ja","Nee","Ja","Ja","Ja","Nee","Nee","Ja","Ja","Ja","Ja","Ja","Ja","Ja","Ja","Ja","Ja"],[3,0,1,2,0,0,50,0,7,5,0,0,17,0,10,38,0,0,5,5,30,0,20,0,1,2,0,0,8,150,3,2,0,1,5,4,3,0,90,1,0,2,15,25,0,2,1,2,90,200,1,8,0,0,60,5,0,0,0,3,0,0,0,10,2,0,0,10,40,3,8,0,0,3,0,0,0,0,2,0,1,20,3,0,1,30,0,30,15,3,0,70,0,0,2,0,3,15,0,6,15,60,3,30,10,3,0,3,4,13,0,0,6,50,6,15,20,3,3,0,2,2],[3,1,4,4,1,1,4,4,3,5,3,3,3,2,3,2,4,3,5,4,3,3,3,4,4,4,2,4,5,4,4,3,5,3,4,4,3,4,4,3,4,3,3,5,4,4,4,4,4,5,3,3,4,3,3,3,3,2,4,4,4,4,3,4,3,3,4,4,5,4,5,3,2,4,2,4,3,2,4,4,3,2,3,3,5,2,2,4,3,2,4,3,1,4,1,5,3,4,3,4,3,1,2,4,3,2,3,4,3,4,5,4,5,3,3,5,3,5,3,3,4,3],["Man","Man","Man","Man","Vrouw","Vrouw","Vrouw","Vrouw","Man","Vrouw","Vrouw","Vrouw","Man","Vrouw","Man","Vrouw","Man","Vrouw","Man","Vrouw","Man","Vrouw","Man","Vrouw","Vrouw","Vrouw","Vrouw","Vrouw","Vrouw","Man","Man","Vrouw","Vrouw","Vrouw","Vrouw","Vrouw","Vrouw","Vrouw","Man","Vrouw","Vrouw","Vrouw","Vrouw","Vrouw","Vrouw","Vrouw","Vrouw","Vrouw","Man","Man","Vrouw","Man","Vrouw","Vrouw","Man","Vrouw","Vrouw","Vrouw","Vrouw","Man","Vrouw","Man","Vrouw","Vrouw","Vrouw","Vrouw","Vrouw","Vrouw","Man","Vrouw","Man","Vrouw","Vrouw","Vrouw","Vrouw","Vrouw","Vrouw","Vrouw","Vrouw","Vrouw","Vrouw","Man","Vrouw","Man","Vrouw","Man","Vrouw","Vrouw","Man","Vrouw","Vrouw","Vrouw","Vrouw","Vrouw","Vrouw","Vrouw","Man","Vrouw","Vrouw","Vrouw","Vrouw","Vrouw","Vrouw","Vrouw","Man","Vrouw","Vrouw","Vrouw","Man","Vrouw","Vrouw","Vrouw","Vrouw","Vrouw","Vrouw","Man","Man","Vrouw","Vrouw","Vrouw","Vrouw","Man"],[40,23,27,21,19,20,20,21,20,21,20,19,19,19,26,19,23,21,22,20,19,19,21,20,20,19,21,22,21,20,20,10,23,18,19,25,20,20,25,20,26,20,19,20,20,20,19,20,23,26,19,19,19,31,21,19,19,19,24,29,19,20,20,21,19,20,27,21,32,27,23,19,21,20,19,20,19,20,23,22,19,25,19,23,21,19,19,28,20,19,35,21,21,22,19,22,21,19,19,20,21,20,24,21,28,19,20,20,20,21,20,24,23,20,19,23,21,20,19,31,24,26]],"container":"<table class=\"display\">\n  <thead>\n    <tr>\n      <th> <\/th>\n      <th>Timestamp<\/th>\n      <th>fluiten<\/th>\n      <th>frequentie<\/th>\n      <th>assertief<\/th>\n      <th>sekse<\/th>\n      <th>leeftijd<\/th>\n    <\/tr>\n  <\/thead>\n<\/table>","options":{"columnDefs":[{"className":"dt-right","targets":[3,4,6]},{"orderable":false,"targets":0}],"order":[],"autoWidth":false,"orderClasses":false}},"evals":[],"jsHooks":[]}</script>
 <p></small></p>
 </div>
 <div id="calculating-chi2" class="section level2 subsection">
@@ -382,12 +381,12 @@ legend(&quot;topright&quot;, legend = paste(&quot;k =&quot;,df), col = col, lty 
 observed</code></pre>
 <pre><code>##        sekse
 ## fluiten Man Vrouw
-##     Ja   17    26
-##     Nee   1    13</code></pre>
+##     Ja   29    58
+##     Nee   3    32</code></pre>
 <p><span class="math display">\[\text{observed}_{ij} = 
  \begin{pmatrix}
-  17 &amp; 26 \\
-  1 &amp; 13 \\
+  29 &amp; 58 \\
+  3 &amp; 32 \\
  \end{pmatrix}\]</span></p>
 </div>
 <div id="calculating-the-model" class="section level2 subsection">
@@ -402,9 +401,9 @@ rt2 = rowSums(observed)[2]
 addmargins(observed)</code></pre>
 <pre><code>##        sekse
 ## fluiten Man Vrouw Sum
-##     Ja   17    26  43
-##     Nee   1    13  14
-##     Sum  18    39  57</code></pre>
+##     Ja   29    58  87
+##     Nee   3    32  35
+##     Sum  32    90 122</code></pre>
 </div>
 <div id="calculating-the-model-1" class="section level2 smaller">
 <h2>Calculating the model</h2>
@@ -416,13 +415,13 @@ addmargins(observed)</code></pre>
                   (ct2*rt2)/n),2,2,byrow=T
           )
 model</code></pre>
-<pre><code>##           [,1]      [,2]
-## [1,] 13.578947 29.421053
-## [2,]  4.421053  9.578947</code></pre>
+<pre><code>##           [,1]     [,2]
+## [1,] 22.819672 64.18033
+## [2,]  9.180328 25.81967</code></pre>
 <p><span class="math display">\[\text{model}_{ij} = 
  \begin{pmatrix}
-  13.5789474 &amp; 29.4210526 \\
-  4.4210526 &amp; 9.5789474 \\
+  22.8196721 &amp; 64.1803279 \\
+  9.1803279 &amp; 25.8196721 \\
  \end{pmatrix}\]</span></p>
 <p></small></p>
 </div>
@@ -431,8 +430,8 @@ model</code></pre>
 <pre class="r"><code>observed - model</code></pre>
 <pre><code>##        sekse
 ## fluiten       Man     Vrouw
-##     Ja   3.421053 -3.421053
-##     Nee -3.421053  3.421053</code></pre>
+##     Ja   6.180328 -6.180328
+##     Nee -6.180328  6.180328</code></pre>
 </div>
 <div id="calculating-chi2-1" class="section level2">
 <h2>Calculating <span class="math inline">\(\chi^2\)</span></h2>
@@ -440,7 +439,7 @@ model</code></pre>
 <pre class="r"><code># Calculate chi squared
 chi.squared &lt;- sum((observed - model)^2/model)
 chi.squared</code></pre>
-<pre><code>## [1] 5.128738</code></pre>
+<pre><code>## [1] 7.909021</code></pre>
 </div>
 <div id="testing-for-significance" class="section level2 subsection">
 <h2>Testing for significance</h2>
@@ -466,7 +465,7 @@ visualize.chisq(chi.squared,df,section=&#39;upper&#39;)</code></pre>
 <pre class="r"><code># Calculate Yates&#39;s corrected chi squared
 chi.squared.yates &lt;- sum((abs(observed - model) - .5)^2/model)
 chi.squared.yates</code></pre>
-<pre><code>## [1] 3.739123</code></pre>
+<pre><code>## [1] 6.681078</code></pre>
 <pre class="r"><code>visualize.chisq(chi.squared.yates,df,section=&#39;upper&#39;)</code></pre>
 <hr />
 <p><img src="chi_squared_test_handout_files/figure-html/unnamed-chunk-12-1.png" width="672" /></p>
@@ -477,7 +476,7 @@ chi.squared.yates</code></pre>
 <p><span class="math display">\[L \chi^2 = 2 \sum \text{observed}_{ij} ln \left( \frac{\text{observed}_{ij}}{\text{model}_{ij}} \right)\]</span></p>
 <pre class="r"><code># ln is log
 lx2 = 2 * sum(observed * log(observed / model) ); lx2</code></pre>
-<pre><code>## [1] 6.178795</code></pre>
+<pre><code>## [1] 9.179238</code></pre>
 <pre class="r"><code>visualize.chisq(lx2,df,section=&#39;upper&#39;)</code></pre>
 <hr />
 <p><img src="chi_squared_test_handout_files/figure-html/unnamed-chunk-13-1.png" width="672" /></p>
@@ -488,8 +487,8 @@ lx2 = 2 * sum(observed * log(observed / model) ); lx2</code></pre>
 <pre class="r"><code>(observed - model) / sqrt(model)</code></pre>
 <pre><code>##        sekse
 ## fluiten        Man      Vrouw
-##     Ja   0.9283820 -0.6307114
-##     Nee -1.6270351  1.1053527</code></pre>
+##     Ja   1.2937692 -0.7714549
+##     Nee -2.0397757  1.2162872</code></pre>
 </div>
 <div id="effect-size" class="section level2 subsection">
 <h2>Effect size</h2>
@@ -497,30 +496,30 @@ lx2 = 2 * sum(observed * log(observed / model) ); lx2</code></pre>
 <pre class="r"><code>odds &lt;- round( observed, 2); odds</code></pre>
 <pre><code>##        sekse
 ## fluiten Man Vrouw
-##     Ja   17    26
-##     Nee   1    13</code></pre>
+##     Ja   29    58
+##     Nee   3    32</code></pre>
 <p><span class="math display">\[\begin{pmatrix}
   a &amp; b \\
   c &amp; d \\
  \end{pmatrix}\]</span></p>
-<p><span class="math display">\[OR = \frac{a \times d}{b \times c} = \frac{17 \times 13}{26 \times 1} = 8.5\]</span></p>
+<p><span class="math display">\[OR = \frac{a \times d}{b \times c} = \frac{29 \times 32}{58 \times 3} = 5.3333333\]</span></p>
 </div>
 <div id="odds" class="section level2">
 <h2>Odds</h2>
 <pre><code>##        sekse
 ## fluiten Man Vrouw
-##     Ja   17    26
-##     Nee   1    13</code></pre>
+##     Ja   29    58
+##     Nee   3    32</code></pre>
 <p>The man and women ratio of people that can whisle and the ratio of those who can’t whistle</p>
 <ul>
-<li>Can wistle <span class="math inline">\(\text{Odds}_{mf} = \frac{ 17 }{ 26 }\)</span> = 0.6538462</li>
-<li>Can’t wistle <span class="math inline">\(\text{Odds}_{mf} = \frac{ 1 }{ 13 }\)</span> = 0.0769231</li>
+<li>Can wistle <span class="math inline">\(\text{Odds}_{mf} = \frac{ 29 }{ 58 }\)</span> = 0.5</li>
+<li>Can’t wistle <span class="math inline">\(\text{Odds}_{mf} = \frac{ 3 }{ 32 }\)</span> = 0.09375</li>
 </ul>
 </div>
 <div id="odds-ratio" class="section level2">
 <h2>Odds ratio</h2>
 <p>Is the ratio of these odds.</p>
-<p><span class="math display">\[OR = \frac{\text{wistle}}{\text{can&#39;t wistle}} = \frac{0.6538462}{0.0769231} = 8.5\]</span></p>
+<p><span class="math display">\[OR = \frac{\text{wistle}}{\text{can&#39;t wistle}} = \frac{0.5}{0.09375} = 5.3333333\]</span></p>
 <!-- Footer insert below -->
 </div>
 </div>
